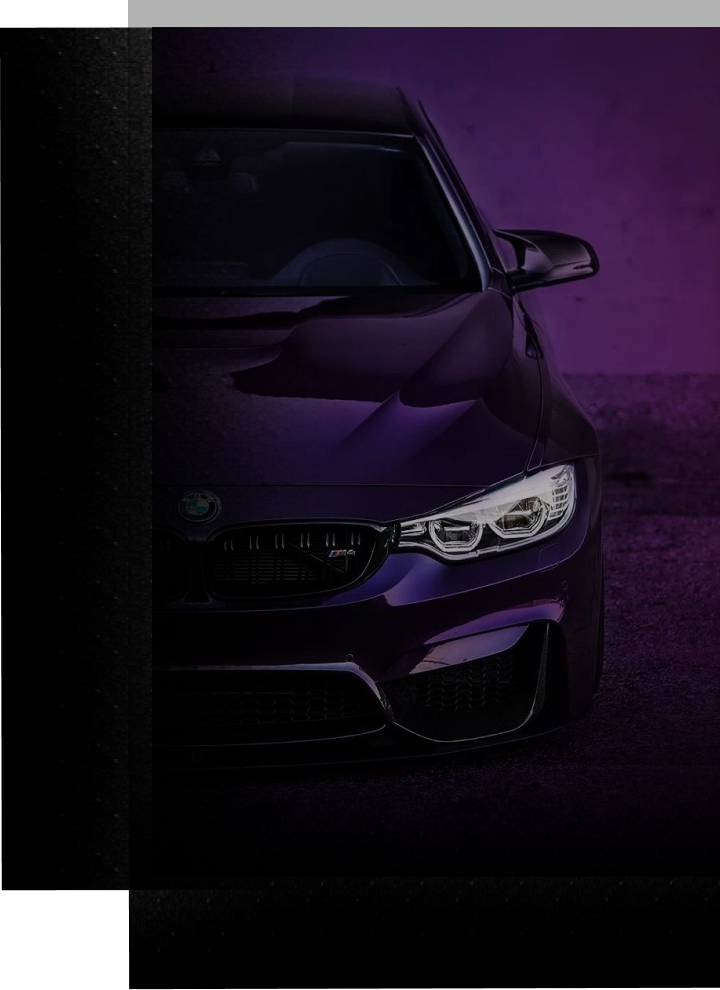
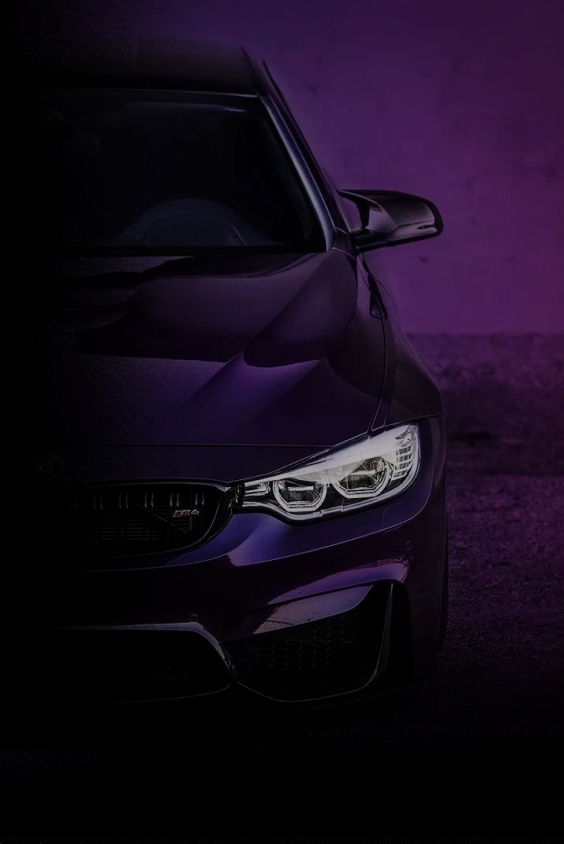
se acomodo la imagen de servicio

diff --git a/Proyecto Web/pages/servicios.html b/Proyecto Web/pages/servicios.html
@@ -22,33 +22,35 @@
         <div>
             <div class="contacto-nav">
                 <div>
-                    <img src="../assest/logos/WhatsApp.png" alt="">logo wsp
+                    <img src="../assest/logos/WhatsApp.png" alt="">
                 <h3>1168001717</h3>
                 </div>
                 <div>
-                    <img src="../assest/logos/Instagram.png" alt="">logo inst
+                    <img src="../assest/logos/Instagram.png" alt="">
                     <h3>c.cristales_car</h3>
                 </div>
                 <div>
-                    <img src="../assest/logos/Mail.png" alt="">logo mail
+                    <img src="../assest/logos/Mail.png" alt="">
                     <h3>ccristales.car@gmail.com</h3>
                 </div>
             </div>    
         </div>
     </header>
     <main> 
-        <section class="fondo-ini-servicio">
-            <h1 class="titulo-right">Parabrisas</h1>
-            <div class="galery-right">
-                <img src="../assest/imagenes/servicios/bmw-inicio.png" alt="">
-            </div>
-            <div class="sub-left">
-                <h3>venta de cristales:</h3>
-                <h3>Parabrisas</h3>
-                <h3>Vidrios de puerta</h3>
-                <h3>Aletas</h3>
-                <h3>Custodias</h3>
-                <button class="boton-info">Mas informacion</button>
+        <section >
+            <div class="fondo-ini-servicio">
+                <div class="sub-left">
+                    <h1 class="titulo-right">Parabrisas</h1>
+                    <h3>° venta de cristales:</h3>
+                    <h3>° Parabrisas</h3>
+                    <h3>° Vidrios de puerta</h3>
+                    <h3>° Aletas</h3>
+                    <h3>° Custodias</h3>
+                    <button class="boton-info">Mas informacion</button>
+                </div>
+                <div>
+                    <img src="../assest/imagenes/servicios/bmw-inicio.png" alt="">
+                </div>
             </div>
                 
             <div class="sub-left">

diff --git a/Proyecto Web/css/styles.css b/Proyecto Web/css/styles.css
@@ -7,7 +7,7 @@
 .fondo{background-color: black;
 }
 
-header{position: fixed;
+header{
     display: flex;
     flex-direction: row;
     justify-content: space-between;
@@ -91,17 +91,19 @@ a{
     height: 1000px;
     width: 100%;
     background-repeat: no-repeat;
-    padding-top: 35%;
+    position: sticky;
 }
 
 /*fONDO principal SERVICIOS*/
-.fondo-ini-servicio{
-    background-image: url("../assest/imagenes/servicios/bmw-inicio.png");
-    background-repeat: no-repeat;
-    background-size: cover;
+.fondo-ini-servicio{display: flex;
+    flex-direction: row;
+    justify-content: space-between;
+    width: 100%;
+    padding-top: 120px;
 }
-
-
+.fondo-ini-servicio img{
+    height: 650px;
+}
 .titulo{
     color:white;
     font-family:"Orbitron", sans-serif;
@@ -141,11 +143,20 @@ a{
 .sub-h2-raight h3{
     font-size: 32px;
 }
-.sub-left{
+.sub-left{display: flex;
+    flex-direction: column;
     color:white;
     font-family:"Orbitron", sans-serif;
     text-align:left;
     font-size: 24px;
+    margin-top: 0px;
+}
+
+.sub-left h1{
+    margin-top: 20px;
+}
+.sub-left h3{
+    margin-top: 1px;
 }
 
 .sub-h2{color:white;
